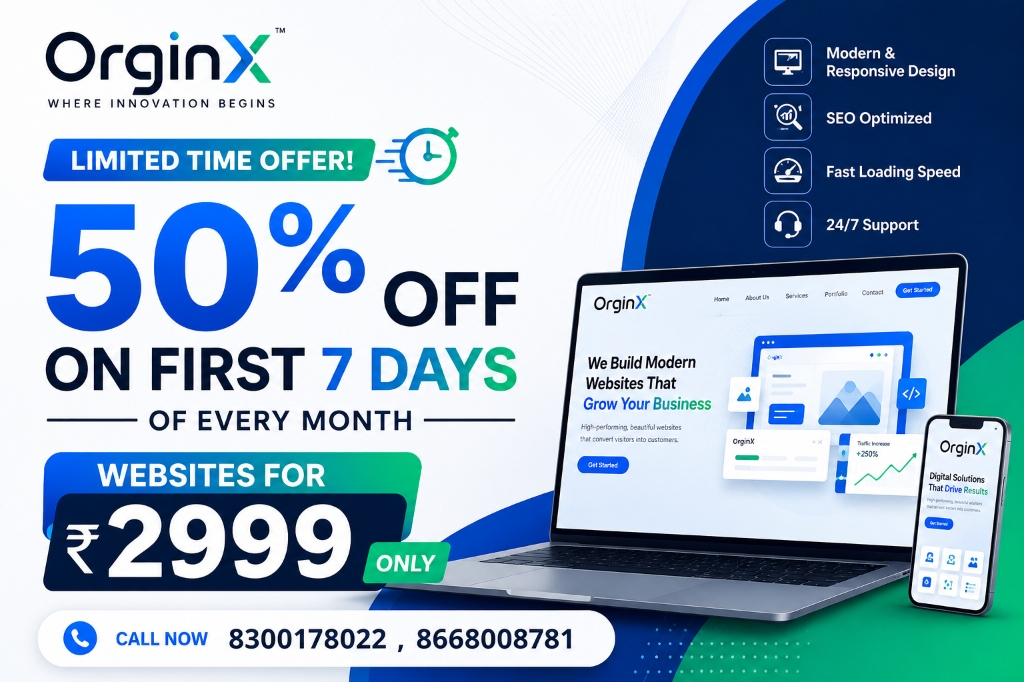
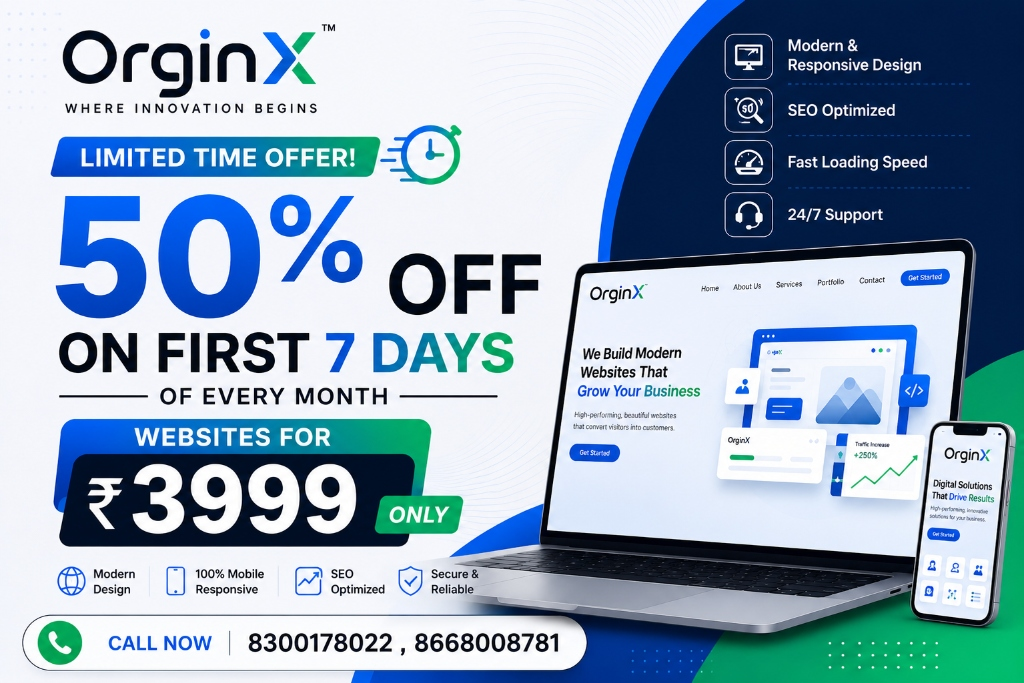
fix: adjust mobile layout spacing, update WhatsApp agent to Viswanth, replace flyer poster, and improve QR vCard format

diff --git a/src/app/page.tsx b/src/app/page.tsx
@@ -466,16 +466,18 @@ export default function Home() {
 
   useEffect(() => {
     // Structured vCard with CRLF line endings, FN property, phone, and website
+    const cleanPhone = cardPhone.replace(/\s+/g, "");
+    const cleanWebsite = cardWebsite.startsWith("http") ? cardWebsite : `https://${cardWebsite}`;
     const vcardData = [
       "BEGIN:VCARD",
       "VERSION:3.0",
+      `N:${cardName};;;;`,
       `FN:${cardName}`,
-      `N:;${cardName};;;`,
-      `TITLE:${cardTitle}`,
       `ORG:${cardBusinessName}`,
-      `TEL;TYPE=CELL,VOICE:${cardPhone}`,
-      `EMAIL;TYPE=PREF,INTERNET:${cardEmail}`,
-      `URL:${cardWebsite}`,
+      `TITLE:${cardTitle}`,
+      `TEL;TYPE=CELL:${cleanPhone}`,
+      `EMAIL;TYPE=INTERNET,WORK:${cardEmail}`,
+      `URL;TYPE=WORK:${cleanWebsite}`,
       `ADR;TYPE=WORK:;;${cardAddress};;;;`,
       "END:VCARD"
     ].join("\r\n");
@@ -1157,7 +1159,7 @@ export default function Home() {
       </div>
 
       {/* Mainframe Interactive Hero Section (Creatix Style Pivot) */}
-      <section id="hero" className="bg-white text-zinc-900 rounded-b-[40px] sm:rounded-b-[60px] lg:rounded-b-[80px] shadow-2xl relative z-10 pt-20 pb-10 lg:pt-24 lg:pb-14 select-none overflow-hidden transition-all duration-500">
+      <section id="hero" className="bg-white text-zinc-900 rounded-b-[40px] sm:rounded-b-[60px] lg:rounded-b-[80px] shadow-2xl relative z-10 pt-20 pb-20 lg:pt-24 lg:pb-14 select-none overflow-hidden transition-all duration-500">
         <div className="mx-auto max-w-7xl px-4 sm:px-6 lg:px-8 flex flex-col items-center">
           
           {/* Centered Heading */}
@@ -1266,7 +1268,7 @@ export default function Home() {
               target.scrollIntoView({ behavior: "smooth" });
             }
           }}
-          className="absolute bottom-6 left-1/2 -translate-x-1/2 flex flex-col items-center gap-1 text-zinc-400 hover:text-zinc-600 transition-colors duration-200 cursor-pointer z-20 group"
+          className="absolute bottom-6 left-1/2 -translate-x-1/2 hidden md:flex flex-col items-center gap-1 text-zinc-400 hover:text-zinc-600 transition-colors duration-200 cursor-pointer z-20 group"
         >
           <span className="text-[9px] uppercase font-bold tracking-widest font-sans">Scroll Down</span>
           <motion.div

diff --git a/src/components/WhatsAppWidget.tsx b/src/components/WhatsAppWidget.tsx
@@ -90,12 +90,12 @@ export default function WhatsAppWidget() {
                 className="flex items-center gap-4 rounded-2xl border border-white/10 bg-white/5 p-3.5 text-foreground transition-all duration-300 hover:translate-y-[-2px] hover:border-[#25D366]/40 hover:bg-white/10 shadow-[inset_0_1px_1px_rgba(255,255,255,0.05)] hover:shadow-[0_8px_20px_rgba(37,211,102,0.15)] relative overflow-hidden group"
               >
                 <div className="relative flex h-11 w-11 shrink-0 items-center justify-center rounded-xl bg-purple-500 font-black text-white border border-white/15 shadow-md">
-                  OX
+                  V
                   <span className="absolute -bottom-1 -right-1 h-3 w-3 rounded-full border-2 border-zinc-900 bg-[#4caf50]" />
                 </div>
                 <div className="flex-grow">
-                  <div className="font-extrabold text-sm leading-none text-white tracking-tight group-hover:text-[#25D366] transition-colors">Sales & Business</div>
-                  <div className="mt-1 text-xs text-zinc-400">Strategy & Partnerships</div>
+                  <div className="font-extrabold text-sm leading-none text-white tracking-tight group-hover:text-[#25D366] transition-colors">Viswanth</div>
+                  <div className="mt-1 text-xs text-zinc-400">Sales & Co-Founder</div>
                 </div>
                 <MessageSquare className="h-4 w-4 text-[#25D366] group-hover:scale-110 transition-transform" />
               </a>